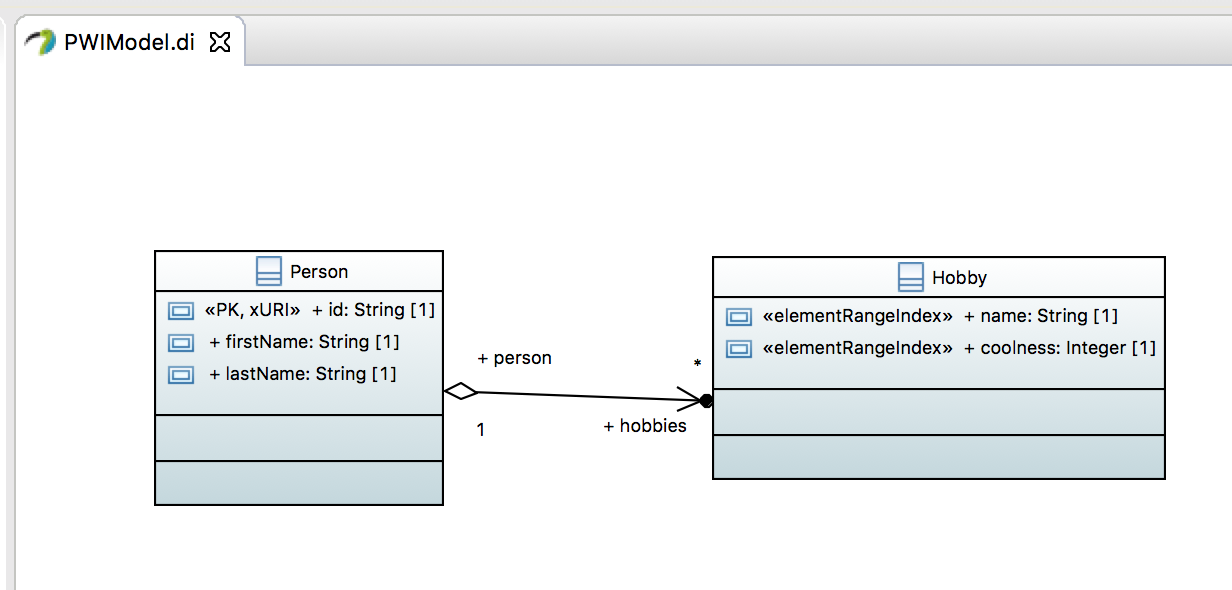
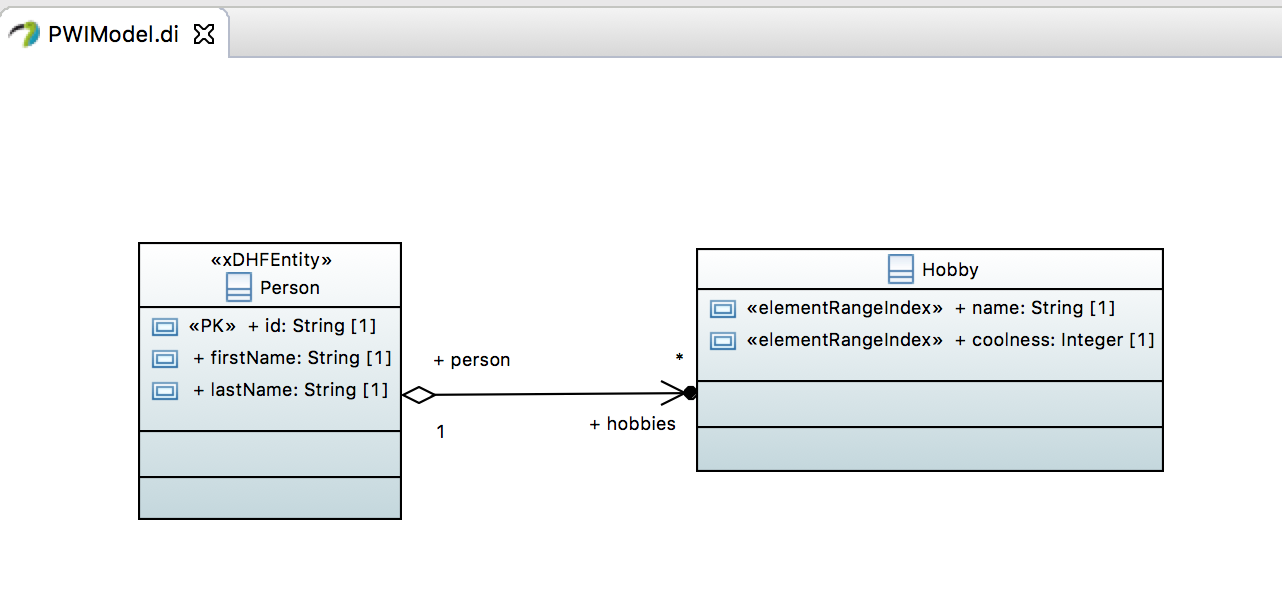
dhf51

Changed region(s): [[0.0925, 0.3966, 0.9562, 0.8847], [0.0, 0.0, 1.0, 0.122]]

diff --git a/uml2es/tutorials/dmui.md b/uml2es/tutorials/dmui.md
@@ -163,7 +163,11 @@ In the same Properties window select UML and change the name from Root Element t
 
 ![Root element](images/dmui_setup17.png)
 
-Physically in MarkLogic, instances of the Person class are documents. Let's designate the id attribute as the URI of the document. Configuring this is straightforward; follow the same step as when setting id as PK. You end up with the following:
+Finally, let's indicate that the Person class is meant to be a primary entity in DHF. That is, in DHF, we will be building Person documents. A Person contains zero or more Hobby instances. Hobby is not a primary entity. There are no hobby documents; a hobby lives as a sub-document of Person. We therefore stereotype the Person class as xDHFEntity. Select the Person class.  Under Properties select Profile. Under Applied Stereotype add xDHFEntity.
+
+![Final model](images/dmui_setup17a.png)
+
+Here is the final model:
 
 ![Final model](images/dmui_setup18.png)
 
